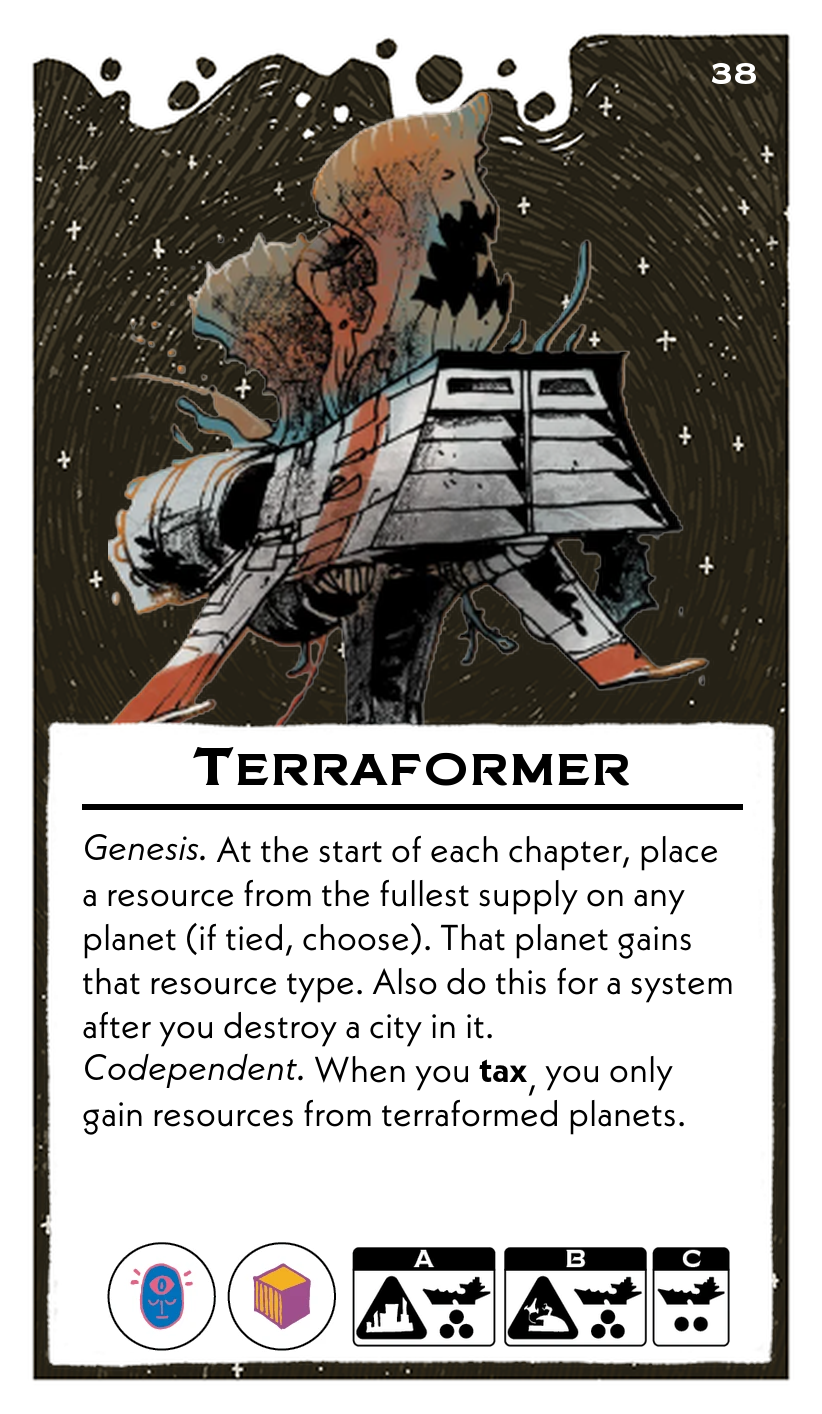
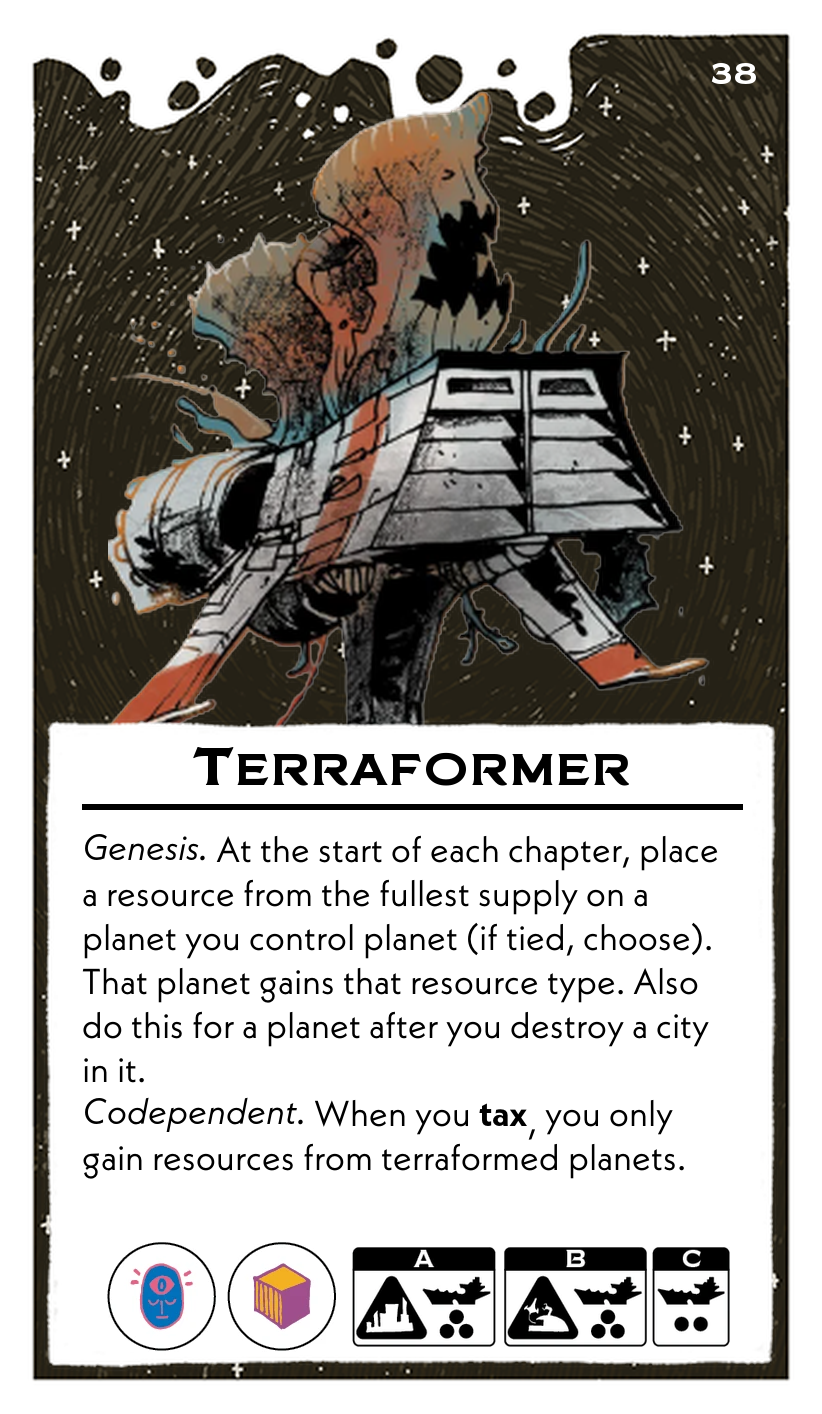
some leaders

Changed region(s): [[0.0912, 0.6223, 0.882, 0.8402]]

diff --git a/scripts/leadersFormatted.py b/scripts/leadersFormatted.py
@@ -585,7 +585,7 @@ leaders = [
     {
         "name": "Terraformer",
         "abilities": (
-            "*Genesis.* At the start of each chapter, place a resource from the fullest supply on any planet (if tied, choose). That planet gains that resource type. Also do this for a system after you destroy a city in it.\n"
+            "*Genesis.* At the start of each chapter, place a resource from the fullest supply on a planet you control planet (if tied, choose). That planet gains that resource type. Also do this for a planet after you destroy a city in it.\n"
             "*Codependent.* When you **tax**, you only gain resources from terraformed planets."
         ),
         "resources": ["Psionic", "Material"],
@@ -940,5 +940,140 @@ leaders = [
         "body_font_size": 18,
         "zoom": 1.3,
         "boundary_shift": 0.4
+    },
+    # Forsaken
+    {
+        "name": "Forsaken",
+        "abilities": (
+            "*Desperate.* When attacking in **battle**, you may destroy all damaged attacking ships (they're not taken as trophies) to roll 2 extra dice for each ship you just destroyed.\n"
+            "*Remorseless.* In **battle**, you cannot roll raid dice without destroying a ship first."
+        ),
+        "resources": ["Weapon", "Fuel"],
+        "setup": {
+            "A": {"ships": 3, "building": "city"},
+            "B": {"ships": 3, "building": "starport"},
+            "C": {"ships": 2, "building": "None"}
+        },
+        "body_font_size": 18
+    },
+    # Assasin
+    {
+        "name": "Assasin",
+        "abilities": (
+            "*Lethal.* At the start of your Prelude, you may move 1 ship to any other system, then **battle** with it by itself. After the battle, the defender destroys it if it did not destroy all rival pieces in its system.\n"
+            "*Doomed.* idk"
+        ),
+        "resources": ["Weapon", "Psionic"],
+        "setup": {
+            "A": {"ships": 3, "building": "city"},
+            "B": {"ships": 3, "building": "starport"},
+            "C": {"ships": 2, "building": "None"}
+        },
+        "body_font_size": 18
+    },
+    # Companion
+    {
+        "name": "Companion",
+        "abilities": (
+            "*Helpful.* When a rival **battles**, you may allow them to use your ships like they are loyal. If they do, take 1 of their agents as a favor. You may spend this favor to use their ships like they are loyal in a **battle** on your turn.\n"
+            "*Entangled.* At the start of each chapter, give 1 favor to a player."
+        ),
+        "resources": ["Relic", "Fuel"],
+        "setup": {
+            "A": {"ships": 3, "building": "city"},
+            "B": {"ships": 3, "building": "starport"},
+            "C": {"ships": 2, "building": "None"}
+        },
+        "body_font_size": 18
+    },
+    # Witch
+    {
+        "name": "Witch",
+        "abilities": (
+            "*Hexing.* When you **influence** a card, you may discard 1 resource to capture 1 rival agent from that card.\n"
+            "*Ostracized.* idk."
+        ),
+        "resources": ["Psionic", "Relic"],
+        "setup": {
+            "A": {"ships": 3, "building": "city"},
+            "B": {"ships": 3, "building": "starport"},
+            "C": {"ships": 2, "building": "None"}
+        },
+        "body_font_size": 18
+    },
+    # Creator
+    {
+        "name": "Creator",
+        "abilities": (
+            "*Ingenious.* When you **build** a ship, you may take it from any rival's supply and build it at any starport. If you build a rival's ship, take a resource matching that system.\n"
+            "*Onerous.* idk"
+        ),
+        "resources": ["Material", "Fuel"],
+        "setup": {
+            "A": {"ships": 3, "building": "city"},
+            "B": {"ships": 3, "building": "starport"},
+            "C": {"ships": 2, "building": "None"}
+        },
+        "body_font_size": 18
+    },
+    # Messiah
+    {
+        "name": "Messiah",
+        "abilities": (
+            "*Redemptive.* When you **build** a city in a system with any damaged rival ships, you may replace all those damaged rival ships with loyal fresh ships.\n"
+            "*Reckoning.* In **scoring**, if you win no ambitions, destroy all your damaged ships."
+        ),
+        "resources": ["Relic", "Weapon"],
+        "setup": {
+            "A": {"ships": 3, "building": "city"},
+            "B": {"ships": 3, "building": "starport"},
+            "C": {"ships": 2, "building": "None"}
+        },
+        "body_font_size": 18
+    },
+    # Abomination
+    {
+        "name": "Abomination",
+        "abilities": (
+            "*Ravenous.* When you play a card, you may discard a card to take twice as many actions with your played card.\n"
+            "*Revealed.* When a suit is led, reveal all your matching cards."
+        ),
+        "resources": ["Psionic", "Weapon"],
+        "setup": {
+            "A": {"ships": 3, "building": "city"},
+            "B": {"ships": 3, "building": "starport"},
+            "C": {"ships": 2, "building": "None"}
+        },
+        "body_font_size": 18
+    },
+    # Crusader
+    {
+        "name": "Crusader",
+        "abilities": (
+            "*Zealous.* When you destroy a building, **secure** a matching card from the Court.\n"
+            "*Dogmatic.* You cannot **influence** a card with no agents if a rival can secure a card with any of your loyal agents.."
+        ),
+        "resources": ["Weapon", "Material"],
+        "setup": {
+            "A": {"ships": 3, "building": "city"},
+            "B": {"ships": 3, "building": "starport"},
+            "C": {"ships": 2, "building": "None"}
+        },
+        "body_font_size": 18
+    },
+    # Djinn
+    {
+        "name": "Djinn",
+        "abilities": (
+            "*Wishful.* At the start of your Prelude, name a resource type. Until the end of your turn, you may spend resources only as that type.\n"
+            "*Bound.* When you have a resource type outraged, you **cannot** spend it."
+        ),
+        "resources": ["Relic", "Psionic"],
+        "setup": {
+            "A": {"ships": 3, "building": "city"},
+            "B": {"ships": 3, "building": "starport"},
+            "C": {"ships": 2, "building": "None"}
+        },
+        "body_font_size": 18
     }
 ]
